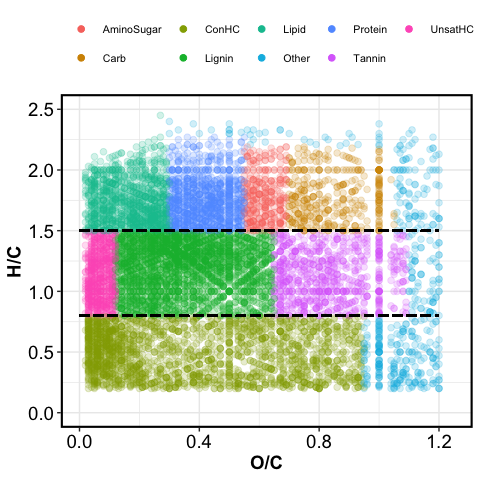
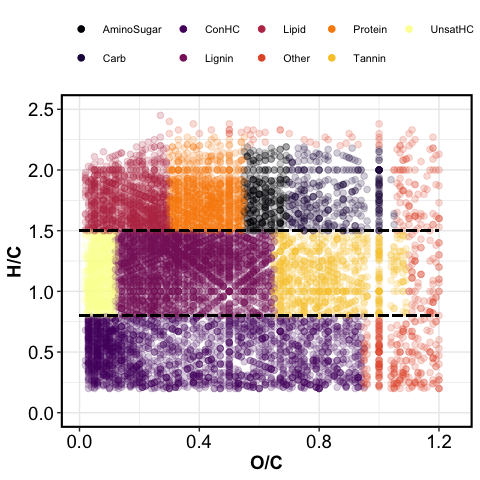
inferno

diff --git a/prelim_results.md b/prelim_results.md
@@ -62,17 +62,17 @@ date run: 2020-06-29
     #> [9] tidyverse_1.3.0
     #> 
     #> loaded via a namespace (and not attached):
-    #>  [1] tidyselect_1.1.0 xfun_0.15        haven_2.3.1      lattice_0.20-41 
-    #>  [5] colorspace_1.4-1 vctrs_0.3.1      generics_0.0.2   htmltools_0.5.0 
-    #>  [9] yaml_2.2.1       blob_1.2.1       rlang_0.4.6      pillar_1.4.4    
-    #> [13] glue_1.4.1       withr_2.2.0      DBI_1.1.0        dbplyr_1.4.4    
-    #> [17] modelr_0.1.8     readxl_1.3.1     lifecycle_0.2.0  munsell_0.5.0   
-    #> [21] gtable_0.3.0     cellranger_1.1.0 rvest_0.3.5      evaluate_0.14   
-    #> [25] labeling_0.3     knitr_1.28       fansi_0.4.1      broom_0.5.6     
-    #> [29] Rcpp_1.0.4.6     scales_1.1.1     backports_1.1.8  jsonlite_1.6.1  
-    #> [33] farver_2.0.3     fs_1.4.1         hms_0.5.3        digest_0.6.25   
-    #> [37] stringi_1.4.6    grid_4.0.1       cli_2.0.2        tools_4.0.1     
-    #> [41] magrittr_1.5     crayon_1.3.4     pkgconfig_2.0.3  MASS_7.3-51.6   
-    #> [45] ellipsis_0.3.1   xml2_1.3.2       reprex_0.3.0     lubridate_1.7.9 
-    #> [49] assertthat_0.2.1 rmarkdown_2.3    httr_1.4.1       rstudioapi_0.11 
-    #> [53] R6_2.4.1         nlme_3.1-148     compiler_4.0.1
+    #>  [1] tidyselect_1.1.0  xfun_0.15         haven_2.3.1       lattice_0.20-41  
+    #>  [5] colorspace_1.4-1  vctrs_0.3.1       generics_0.0.2    viridisLite_0.3.0
+    #>  [9] htmltools_0.5.0   yaml_2.2.1        blob_1.2.1        rlang_0.4.6      
+    #> [13] pillar_1.4.4      glue_1.4.1        withr_2.2.0       DBI_1.1.0        
+    #> [17] dbplyr_1.4.4      modelr_0.1.8      readxl_1.3.1      lifecycle_0.2.0  
+    #> [21] munsell_0.5.0     gtable_0.3.0      cellranger_1.1.0  rvest_0.3.5      
+    #> [25] evaluate_0.14     labeling_0.3      knitr_1.28        fansi_0.4.1      
+    #> [29] broom_0.5.6       Rcpp_1.0.4.6      scales_1.1.1      backports_1.1.8  
+    #> [33] jsonlite_1.6.1    farver_2.0.3      fs_1.4.1          hms_0.5.3        
+    #> [37] digest_0.6.25     stringi_1.4.6     grid_4.0.1        cli_2.0.2        
+    #> [41] tools_4.0.1       magrittr_1.5      crayon_1.3.4      pkgconfig_2.0.3  
+    #> [45] MASS_7.3-51.6     ellipsis_0.3.1    xml2_1.3.2        reprex_0.3.0     
+    #> [49] lubridate_1.7.9   assertthat_0.2.1  rmarkdown_2.3     httr_1.4.1       
+    #> [53] rstudioapi_0.11   R6_2.4.1          nlme_3.1-148      compiler_4.0.1
